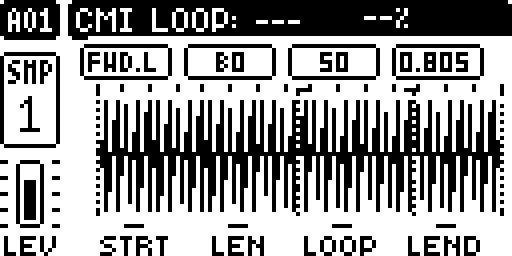
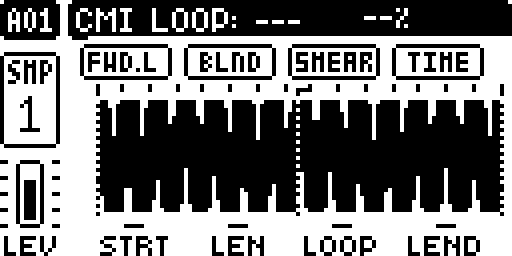
Digi CMI 0.33: time synth at the sample's level; named boxes
The time synth keeps the sample's own level instead of normalising its waves to near full scale
(measured equal to the sample engine on the test sine), and SMEAR keeps it. Page 2's BLND, SMEAR and
TIME boxes show their names, and their value while it changes.

diff --git a/mods/digicmi/cmi_page.c b/mods/digicmi/cmi_page.c
@@ -350,6 +350,11 @@ static void vbox(void *bmp, int k, const char *s, int dotted_frame)
  * last drawn, so the screen that followed - the sample browser, say - was redrawn 30 times a second while
  * notes sounded, and the UI felt sluggish.) */
 static int page2_live;
+/* BLND and SMEAR's boxes (0.33): the name, and the number for VAL_TICKS UI ticks after the value changes (a
+ * prefix letter, 0.18-0.32, read as a digit in the 3 x 5 font: S as 5, B as 8). */
+#define VAL_TICKS 45
+static int blnd_age = 1000, smear_age = 1000, last_blnd = -1, last_smear = -1;
+static int time_age = 1000, last_time = -1;     /* TIME's box too: the name, the seconds while it changes */
 static int cmi_live;                            /* the last frame drawn was the CMI's page 1 or 2 */
 static int meter_shown = -2;                    /* the load the title bar shows */
 extern volatile int digicmi_cpu_load;           /* cpumeter.c: the render's peak load, 256ths; -1 not measured */
@@ -402,6 +407,12 @@ void digicmi_page_tick(void *ctrl)
     digicmi_ts_tick();                          /* timesynth.c: the waves, when track 1's sample, STRT or LEN change */
     odd ^= 1;
     digicmi_uiticks++;
+    if (blnd_age < 1000 && ++blnd_age == VAL_TICKS && page2_live && ctrl)
+        *((unsigned char *)ctrl + 0x20) = 1;    /* BLND's box back to its name */
+    if (smear_age < 1000 && ++smear_age == VAL_TICKS && page2_live && ctrl)
+        *((unsigned char *)ctrl + 0x20) = 1;    /* SMEAR's box back to its name */
+    if (time_age < 1000 && ++time_age == VAL_TICKS && page2_live && ctrl)
+        *((unsigned char *)ctrl + 0x20) = 1;    /* TIME's box back to its name */
     if (digicmi_param_moved) {
         digicmi_param_moved = 0;
         popup_hold = POPUP_TICKS;
@@ -441,11 +452,35 @@ void digicmi_wave_draw(void *bmp, void *ctrl)
     fw_fillrect(bmp, PX0, 8, 127, 54, 0);        /* the page's knobs go; its bottom labels stay */
     vbox(bmp, 0, shown.play < 5 ? plays[shown.play] : "?", 0);
     if (shown.eng >= 96) {                       /* TIME: B BLND, C SMEAR (LMOD's slot), D TIME (slot 49) */
-        put_u(put_s(b, "B"), (unsigned)shown.blnd);
+        if (shown.blnd != last_blnd) {           /* changed: show the number a while */
+            if (last_blnd >= 0)
+                blnd_age = 0;
+            last_blnd = shown.blnd;
+        }
+        if (blnd_age < VAL_TICKS)
+            put_u(b, (unsigned)shown.blnd);
+        else
+            put_s(b, "BLND");
         vbox(bmp, 1, b, 0);
-        put_u(put_s(b, "S"), (unsigned)shown.lmod);
+        if (shown.lmod != last_smear) {
+            if (last_smear >= 0)
+                smear_age = 0;
+            last_smear = shown.lmod;
+        }
+        if (smear_age < VAL_TICKS)
+            put_u(b, (unsigned)shown.lmod);
+        else
+            put_s(b, "SMEAR");
         vbox(bmp, 2, b, 0);
-        put_secs(b, (unsigned)shown.lfin * 120u / 127u);
+        if (shown.lfin != last_time) {
+            if (last_time >= 0)
+                time_age = 0;
+            last_time = shown.lfin;
+        }
+        if (time_age < VAL_TICKS)
+            put_secs(b, (unsigned)shown.lfin * 120u / 127u);
+        else
+            put_s(b, "TIME");
         vbox(bmp, 3, b, 0);
     } else {
         vbox(bmp, 1, "", 1);                     /* B and D: empty places, as the Digitakt II draws them */

diff --git a/mods/digicmi/timesynth.c b/mods/digicmi/timesynth.c
@@ -8,7 +8,9 @@
  * on the sample at half rate, then refined at full rate with a parabola) or set by ROOT (page 1 F, slot 52:
  * 0 AUTO, else MIDI note 23 + value; a value with a low byte, as kits from before 0.20 hold there, is AUTO). A region with no clear period falls back to C3 (183.47
  * samples). Each cycle starts at the first upward zero crossing after its place and is resampled to TS_LEN; a straight ramp takes out the difference between its
- * two ends so it loops without a click. All frames share one scale (the loudest frame's peak to 29000), so
+ * two ends so it loops without a click. (0.17-0.32 scaled all frames so the loudest peaked at 29000, which made the
+ * time synth much louder than the sample; from 0.33 the waves keep the sample's own level, and SMEAR scales back to
+ * the loudest unsmeared wave's peak, so it doesn't change the loudness.) All frames share one scale, so
  * quiet parts of the sample stay quieter. The tables are rebuilt in the UI tick when the sample, STRT or LEN
  * change, into the bank the render is not reading, then switched in one store.
  * Per voice (cmi_loop.c's digicmi_render calls ts_voice), from the voice's own smoothed values:
@@ -45,6 +47,7 @@ typedef unsigned int u32;
 
 static short tab[2][TS_FRAMES][TS_LEN + 1];
 static short raw[TS_FRAMES][TS_LEN + 1];           /* the cut waves, before SMEAR */
+static int raw_peak = 1;                            /* their loudest point (0.33: SMEAR scales back to it) */
 static volatile int bank = -1;                      /* the bank the render reads; -1 none built yet */
 static const short *built_pcm;
 static u32 built_len;
@@ -184,6 +187,7 @@ static void cut(const short *pcm, u32 len, int strt, int lenv, int root)
 {
     u32 st[TS_FRAMES], s0, se, span, need;
     int f, n, peak = 1, drift[TS_FRAMES];
+    raw_peak = 1;
     cycle_fix = CYCLE;
     root_found = 0;
     if (pcm && len > 1024) {
@@ -232,15 +236,19 @@ static void cut(const short *pcm, u32 len, int strt, int lenv, int root)
                 peak = x;
         }
     }
+    raw_peak = peak > 32767 ? 32767 : peak;
     for (f = 0; f < TS_FRAMES; f++) {
         for (n = 0; n < TS_LEN; n++)
-            raw[f][n] = (short)((at(pcm, st[f], (u32)n) - drift[f] * n / TS_LEN) * 29000 / peak);
+        {
+            int x = at(pcm, st[f], (u32)n) - drift[f] * n / TS_LEN;   /* the sample's own level (0.33) */
+            raw[f][n] = (short)(x > 32767 ? 32767 : x < -32768 ? -32768 : x);
+        }
         raw[f][TS_LEN] = raw[f][0];
     }
 }
 
 /* The tables the voices read: raw's waves, SMEAR'd. Wave f is the weighted sum of waves f - r .. f + r (weights
- * a triangle, r = smear x 15 / 127 in 8.8), scaled back so the loudest wave peaks at 29000 again. */
+ * a triangle, r = smear x 15 / 127 in 8.8), scaled back so the loudest wave peaks where the unsmeared ones did. */
 static void smear_into(int into, int smear)
 {
     int f, g, n, peak = 1, r = smear * 15 * 256 / 127;
@@ -267,7 +275,7 @@ static void smear_into(int into, int smear)
     }
     for (f = 0; f < TS_FRAMES; f++) {
         for (n = 0; n < TS_LEN; n++)
-            tab[into][f][n] = (short)(acc[f][n] * 29000 / peak);
+            tab[into][f][n] = (short)(acc[f][n] / peak * raw_peak + acc[f][n] % peak * raw_peak / peak);
         tab[into][f][TS_LEN] = tab[into][f][0];
     }
 }

diff --git a/tests/digiemu_poly.py b/tests/digiemu_poly.py
@@ -177,6 +177,10 @@ if os.environ.get("DIGICMI_SRCSHOT"):           # the machine's SRC page (key 20
             at(4, "encoder", 7, 4)
         for d_, nm in ((10, "a"), (60, "b"), (150, "c"), (300, "d"), (600, "e")):
             at(d_, "snap", "q5_gturn_" + nm)
+        if os.environ.get("DIGICMI_BOXTURN"):    # B (BLND) turned: its box shows the number, then the name again
+            for _ in range(4):
+                at(4, "encoder", 2, -4)
+            at(20, "snap", "q5_bturn_now"); at(400, "snap", "q5_bturn_later")
         PAGES_END = t + 2
     if os.environ.get("DIGICMI_SLURTEST"):      # legato: track 1's key held, track 2's key pressed; then a detached note
         at(0, "chord", (0x40, 0x40, 0x40))

diff --git a/README.md b/README.md
@@ -62,7 +62,7 @@ Page 2 with ENG = TIME:
 |---|---|---|
 | A | PLAY | As for the sample, over the 16 waves: FWD and REV play through once; FWD.L plays first to last, then loops from LOOP's wave to the last; REV.L loops from the last down to LOOP's; P plays first to last, then back and forth between the last and LOOP's |
 | B | BLND | 0 steps from wave to wave (CMI segments); 127 crossfades all the way |
-| C | SMEAR | Mixes each wave with its neighbours, up to all of them; 0 off; shown as S0-S127 (shares LMOD's value) |
+| C | SMEAR | Mixes each wave with its neighbours, up to all of them; 0 off (shares LMOD's value) |
 | D | TIME | Time of one pass from the first wave to the last, 0.05 s to about 13 s, shown in seconds |
 | E, F | STRT, LEN | The part of the sample the waves are cut from |
 | G | LOOP | The wave the loop starts at, between STRT and END (shown on the waveform) |
@@ -100,7 +100,9 @@ CCs: BLND 24, LMOD/SMEAR 25, SPRD 26, TIME 27, RETRO 28, ENG 29, LEND 30. Level 
   detected an octave out or not at all (then C3 is used); there is no manual root setting.
 - SMEAR shares its stored value with LMOD, and TIME with the knob that was LFIN before 0.20, so a value set in
   one engine carries over when you switch ENG.
-- TIME scales its waves to near full level, so a quiet sample plays louder in TIME than in SMPL.
+- TIME keeps the sample's own level (0.33); it can still sound fuller than the sample, as its waves loop at a
+  steady level where a sample usually decays.
+- Page 2's BLND, SMEAR and TIME boxes show their names, and their value while it changes.
 - Loop points snap to a zero crossing within 256 samples of where LOOP and END put them; in silence or DC they
   stay where they are.
 - Projects saved with 0.14-0.22's RETRO switch on open with the dial at its last step, 8 bit 8 kHz.
@@ -118,6 +120,8 @@ Measured in [digiemu](https://github.com/irpina/digiemu) on OS 1.54 (`tests/digi
   (E ×1.260, G ×1.498, B ×1.888 against C).
 - RETRO: every value on the 8-bit grid; held-sample share follows the 24 kHz clock model.
 - SPRD at 127: notes alternate hard left and hard right at full level (stereo output read from the emulated SSI).
+- TIME level (0.33): the same note on the 440 Hz test sine averages 469,968 (sample) and 469,034 (time synth);
+  0.32 played the time synth at up to twice the sample's level.
 - RETRO cost (0.32): the 8-bit cut is applied once per held value instead of to every output sample, so about a
   third of the divisions (the slow instruction here) at 8 bit 24 kHz; voices that are off are skipped. Held-sample
   shares and the 8-bit grid unchanged (0.531 / 0.427 / 0.312 / 0.129 on a chord, 0 values off the grid).
@@ -155,7 +159,7 @@ included here.
 
 ```bash
 python3 -m elekloader.sdk.build mods/digicmi --stock Digitakt_OS1.54.syx --out build
-python3 -m elekloader.patch --stock Digitakt_OS1.54.syx --mod core-4.3-os1.54.elemod --mod machine-pages-1.10-os1.54.elemod --mod build/digicmi-0.32-os1.54.elemod --out digicmi.syx
+python3 -m elekloader.patch --stock Digitakt_OS1.54.syx --mod core-4.3-os1.54.elemod --mod machine-pages-1.10-os1.54.elemod --mod build/digicmi-0.33-os1.54.elemod --out digicmi.syx
 ```
 
 Then send the `.syx` with Elektron Transfer.
@@ -184,7 +188,7 @@ All captures are from digiemu (the emulator's LCD, 4× scale), not photos of a u
 
 ## History
 
-Each version is a tagged commit (`v0.1` ... `v0.32`); see [CHANGELOG.md](CHANGELOG.md). The source of earlier
+Each version is a tagged commit (`v0.1` ... `v0.33`); see [CHANGELOG.md](CHANGELOG.md). The source of earlier
 versions was reconstructed from the development session and checked against the source hashes recorded in each
 built `.elemod` (0.11 against its flashed firmware); 0.4 and 0.5 match in compiled code but differ from the
 built files in some comment text.

diff --git a/CLAUDE.md b/CLAUDE.md
@@ -315,6 +315,11 @@ TUNE, PLAY (FWD, REV, FWD.L, REV.L), BR, SAMP / STRT, LEN, LOOP, LEV. The stock 
 - Checked: RETRO held shares 0.531/0.427/0.312/0.129 and 0 off-grid values, same as 0.31; regression PASS. Block-by-block output can't be compared across builds in digiemu (note starts shift with code timing; `DIGICMI_BLKDUMP` writes the blocks).
 - Lesson: on this CPU, count divisions, not just instructions, in per-sample code.
 
+## Time synth level; named boxes (0.33)
+
+- timesynth.c `cut()` keeps the cycles at the sample's level (clamped to s16, `raw_peak` = their peak); `smear_into` rescales to `raw_peak` instead of 29000. Measured on the 440 Hz test sine: TIME 469,034 vs SMPL 469,968 average output (0.32: up to ~2x).
+- cmi_page.c: BLND / SMEAR / TIME boxes show "BLND", "SMEAR", "TIME", and the value (seconds for TIME) for VAL_TICKS = 45 UI ticks after it changes (`*_age`, `last_*`; the page tick asks for one frame when the time is up). The 0.18-0.32 "B"/"S" prefixes read as 8 and 5 in font5. Test: `DIGICMI_BOXTURN=1` with TIMESHOT turns B and snaps.
+
 ## Constraints and facts
 
 - **Velocity → volume is stock.** The render (0x40077a2c on 1.54) takes each voice's velocity from its message's +20 word, adds a modulation term, clamps it to 0–127 and stores it in `fw_voice_vel[v]`. Both sample players (0x40075184, 0x400757fe) pass it with the voice's volume to 0x40074c60, which returns **gain = (vel/127)² × (VOL/127)**: a square-law curve. digicmi adds no code for it; the test checks that every CMI voice, stolen ones included, is given its own note's velocity.

diff --git a/CHANGELOG.md b/CHANGELOG.md
@@ -2,6 +2,10 @@
 
 Digi CMI, Digitakt mk1 OS 1.54. Each version is a tagged commit. Hardware: builds up to 0.14 and 0.25 ran on the author's unit; the rest from 0.17 only in digiemu.
 
+## 0.33 (2026-11-13): time synth at the sample's level; named boxes
+
+The time synth no longer turns its waves up to near full scale: they keep the sample's own level, and SMEAR keeps it too. Page 2's BLND, SMEAR and TIME boxes show their names, and their value for a moment while it changes (the S and B prefixes read as 5 and 8 in the small font).
+
 ## 0.32 (2026-11-13): RETRO much lighter
 
 With RETRO on, the UI slowed right down while playing, in both engines: RETRO worked out a remainder (a slow division on this processor) on every output sample of every voice. It now does so once per held value, and voices that are off are skipped. The sound is unchanged.
